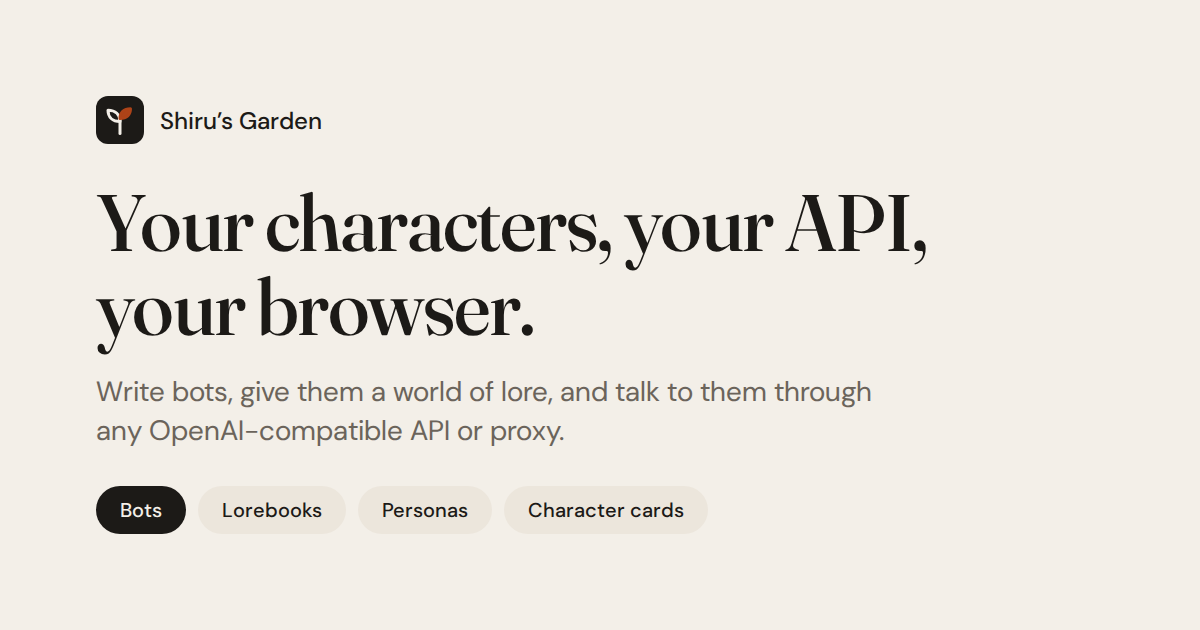
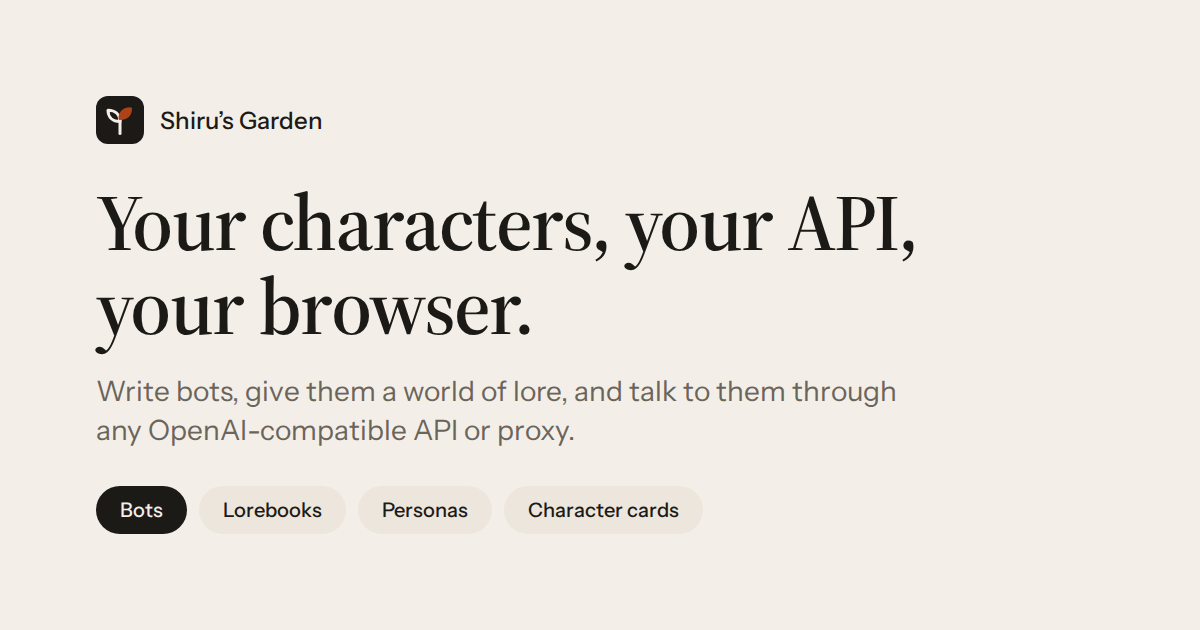
Switch to Source Serif 4, Instrument Sans and JetBrains Mono
Headings use Source Serif 4, body text Instrument Sans, and code
JetBrains Mono, all free Google Fonts. Sizes, spacing and colours are
unchanged. The link-preview image is redrawn in the new fonts.

Claude-Session: https://claude.ai/code/session_019r3HTPhnPdzFoNGxXs3WNw

diff --git a/public/style.css b/public/style.css
@@ -1,14 +1,15 @@
 /* Shiru's Garden design system.
    - Spacing: 4px base, used in steps of 4 and 8 only (--s1 … --s9).
-   - Type: Fraunces for headings, DM Sans for everything else. Sizes come
+   - Type: Source Serif 4 for headings, Instrument Sans for everything else,
+     JetBrains Mono for code. Sizes come
      from the ramp below and scale with the reader's text-size setting.
    - Shape: controls are pills, containers are soft rectangles. Three radii.
    - Colour: ink on warm cream. Orange marks the current choice only.
      Primary actions are ink, not colour. */
 :root {
-  --font: "DM Sans", system-ui, -apple-system, "Segoe UI", sans-serif;
-  --font-display: "Fraunces", Georgia, "Times New Roman", serif;
-  --mono: ui-monospace, "SF Mono", Consolas, monospace;
+  --font: "Instrument Sans", system-ui, -apple-system, "Segoe UI", sans-serif;
+  --font-display: "Source Serif 4", Georgia, "Times New Roman", serif;
+  --mono: "JetBrains Mono", ui-monospace, "SF Mono", Consolas, monospace;
 
   --s1: 4px; --s2: 8px; --s3: 12px; --s4: 16px; --s5: 24px;
   --s6: 32px; --s7: 48px; --s8: 64px; --s9: 96px;

diff --git a/public/index.html b/public/index.html
@@ -23,7 +23,7 @@
 <script src="js/theme-init.js"></script>
 <link rel="preconnect" href="https://fonts.googleapis.com">
 <link rel="preconnect" href="https://fonts.gstatic.com" crossorigin>
-<link href="https://fonts.googleapis.com/css2?family=DM+Sans:ital,opsz,wght@0,9..40,400;0,9..40,500;0,9..40,600;1,9..40,400&family=Fraunces:opsz,wght@9..144,500;9..144,600&display=swap" rel="stylesheet">
+<link href="https://fonts.googleapis.com/css2?family=Instrument+Sans:ital,wght@0,400;0,500;0,600;1,400&amp;family=Source+Serif+4:opsz,wght@8..60,500;8..60,600&amp;family=JetBrains+Mono:wght@400&amp;display=swap" rel="stylesheet">
 <link rel="stylesheet" href="style.css">
 <script type="module" src="js/app.js"></script>
 </head>
